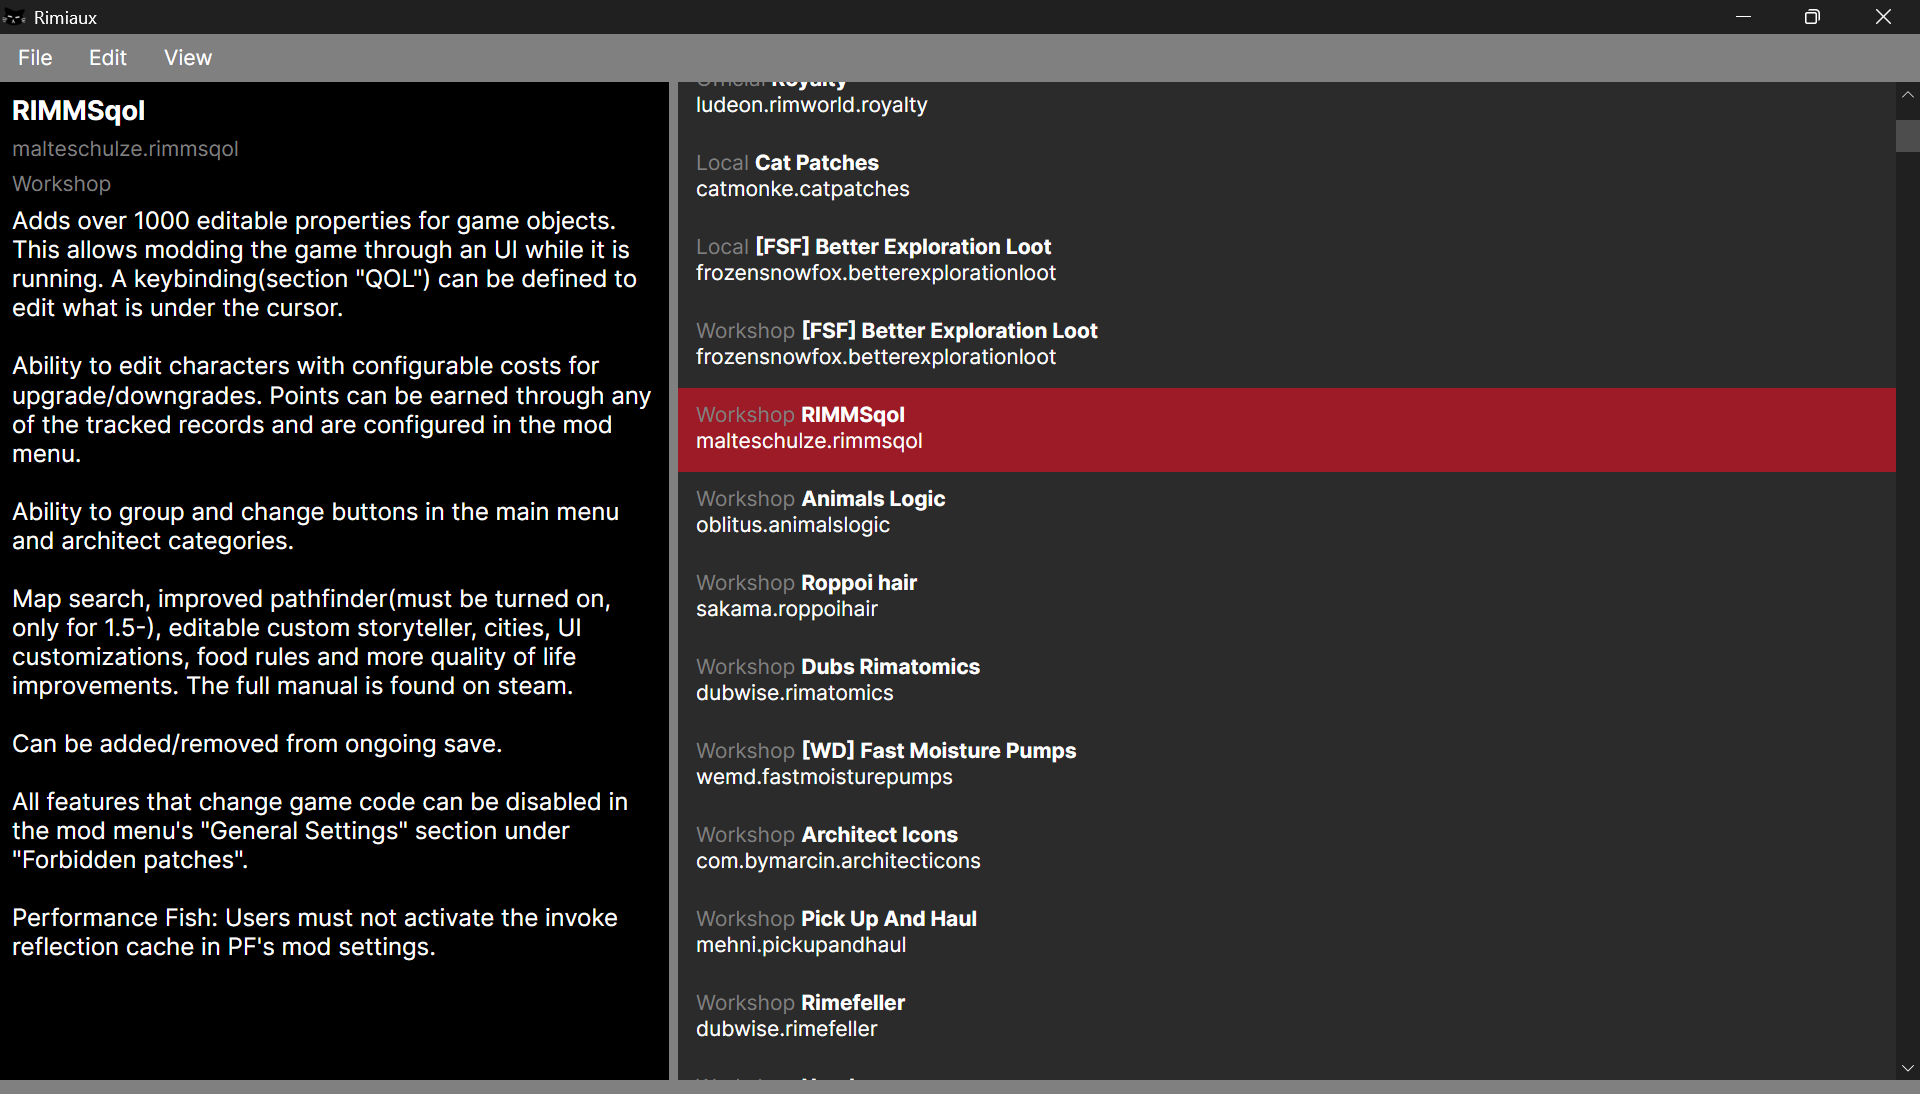
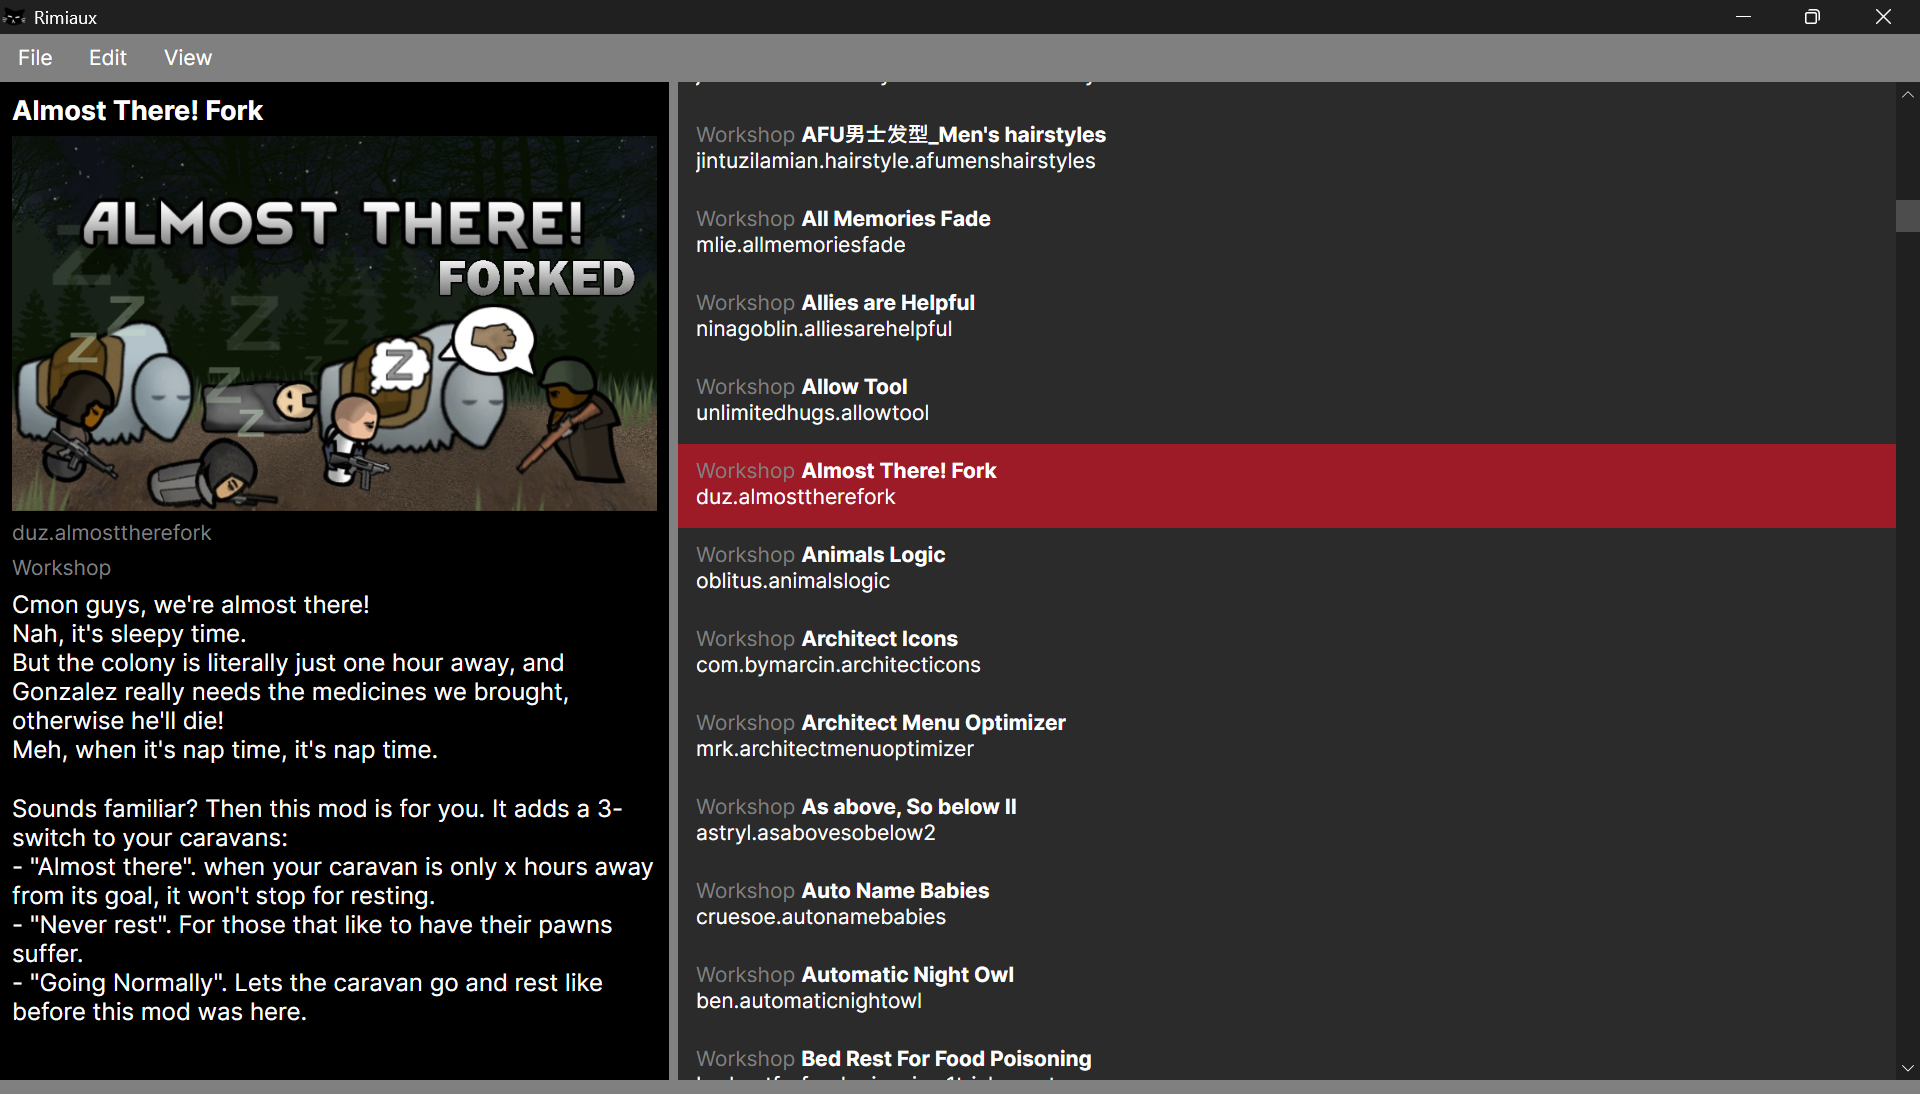
Adds mod preview image to info panel

Changed region(s): [[0.0, 0.0622, 1.0, 0.9945], [0.9688, 0.0932, 1.0, 0.1554], [0.9688, 0.1865, 1.0, 0.2176]]

diff --git a/Rimiaux/Services/ModScanner.cs b/Rimiaux/Services/ModScanner.cs
@@ -59,7 +59,8 @@ namespace Rimiaux.Services
         private static ModMetaData ReadMod(string modFolderPath, ModSource source)
         {
             XElement? root = null;
-            string? aboutPath = FindAboutXml(modFolderPath);
+            string? aboutDir = FindAboutDir(modFolderPath);
+            string? aboutPath = FindFile(aboutDir, "About.xml");
             bool aboutValidation = false;
 
             if (aboutPath != null)
@@ -77,6 +78,7 @@ namespace Rimiaux.Services
             }
 
             string displayName = GetDisplayNameHelper(root, modFolderPath, source);
+            string? previewImagePath = FindFile(aboutDir, "Preview.png");
 
             return new ModMetaData
             {
@@ -90,6 +92,7 @@ namespace Rimiaux.Services
                 SupportedVersions = root?.Element("supportedVersions")?.Elements("li").Select(li => li.Value.Trim()).ToList() ?? new(),
                 Url = XmlStr(root, "url"),
                 Source = source,
+                PreviewImagePath = previewImagePath,
                 ValidAboutXml = aboutValidation,
 
                 Dependencies = GetDependencies(root?.Element("modDependencies")),
@@ -194,12 +197,15 @@ namespace Rimiaux.Services
                 .ToList() ?? new List<string>();
         }
 
-        private static string? FindAboutXml(string modFolderPath)
+        private static string? FindAboutDir(string modFolderPath)
         {
-            string? aboutDir = Directory.EnumerateDirectories(modFolderPath, "About", IgnoreCase).FirstOrDefault();
-            if (aboutDir == null) return null;
+            return Directory.EnumerateDirectories(modFolderPath, "About", IgnoreCase).FirstOrDefault();
+        }
 
-            return Directory.EnumerateFiles(aboutDir, "About.xml", IgnoreCase).FirstOrDefault();
+        private static string? FindFile(string? dir, string fileName)
+        {
+            if (dir == null) return null;
+            return Directory.EnumerateFiles(dir, fileName, IgnoreCase).FirstOrDefault();
         }
 
         private static readonly EnumerationOptions IgnoreCase = new()

diff --git a/Rimiaux/ViewModels/MainViewModel.cs b/Rimiaux/ViewModels/MainViewModel.cs
@@ -1,12 +1,13 @@
-using System;
-using System.Collections.Generic;
-using System.Collections.ObjectModel;
-using System.Linq;
-using System.Threading.Tasks;
+using Avalonia.Media.Imaging;
 using CommunityToolkit.Mvvm.ComponentModel;
 using CommunityToolkit.Mvvm.Input;
 using Rimiaux.Models;
 using Rimiaux.Services;
+using System;
+using System.Collections.Generic;
+using System.Collections.ObjectModel;
+using System.Linq;
+using System.Threading.Tasks;
 
 namespace Rimiaux.ViewModels;
 
@@ -15,6 +16,16 @@ public partial class MainViewModel : ViewModelBase
     
     [ObservableProperty]
     public partial ModMetaData? SelectedMod { get; set; }
+
+    [ObservableProperty]
+    public partial Bitmap? SelectedModPreview { get; set; }
+
+    partial void OnSelectedModChanged(ModMetaData? value)
+    {
+        Bitmap? old = SelectedModPreview;
+        SelectedModPreview = LoadBitmap(value?.PreviewImagePath);
+        old?.Dispose();
+    }
 
     [ObservableProperty]
     public partial string Status { get; set; } = "Press refresh to scan folders.";
@@ -42,6 +53,21 @@ public partial class MainViewModel : ViewModelBase
             InactiveModList.Add(mod);
 
         Status = $"Found {InactiveModList.Count} mods.";
+    }
+
+    private static Bitmap? LoadBitmap(string? path)
+    {
+        if (path is null)
+            return null;
+
+        try
+        {
+            return new Bitmap(path);
+        }
+        catch (Exception)
+        {
+            return null;
+        }
     }
 
 }

diff --git a/Rimiaux/Models/ModMetaData.cs b/Rimiaux/Models/ModMetaData.cs
@@ -16,6 +16,7 @@ namespace Rimiaux.Models
         public List<string> SupportedVersions { get; init; } = new();
         public string? Url { get; init; }
         public required ModSource Source { get; init; }
+        public string? PreviewImagePath { get; init; }
         public required bool ValidAboutXml { get; init; }
 
         
